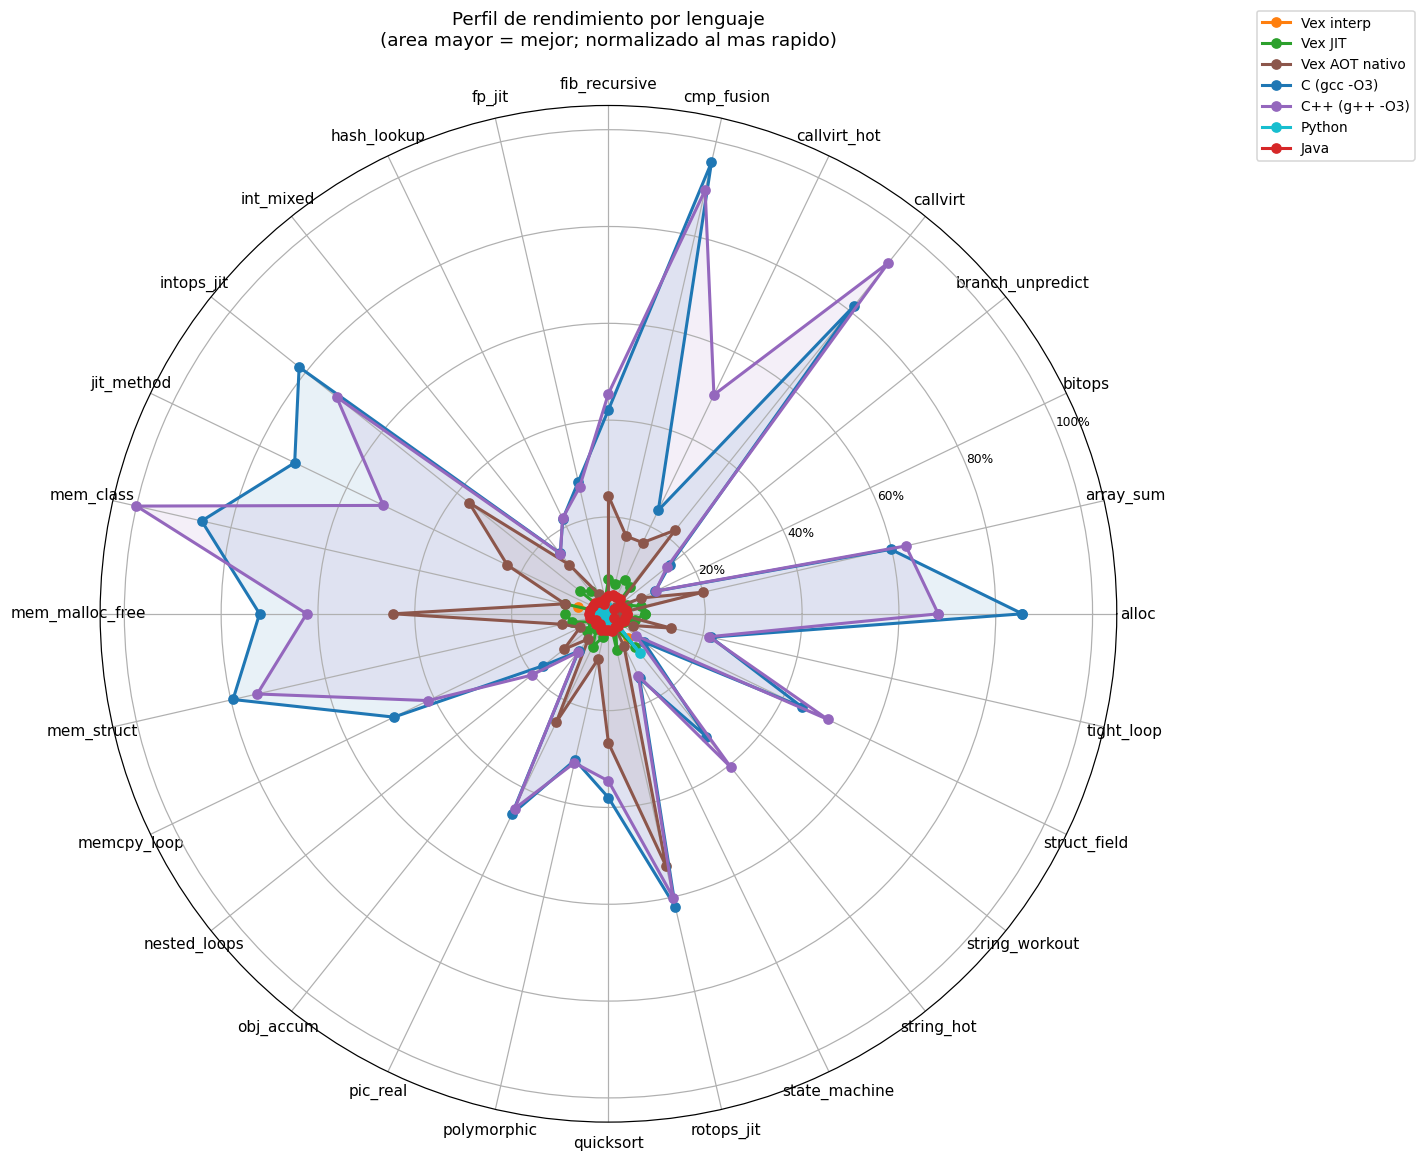
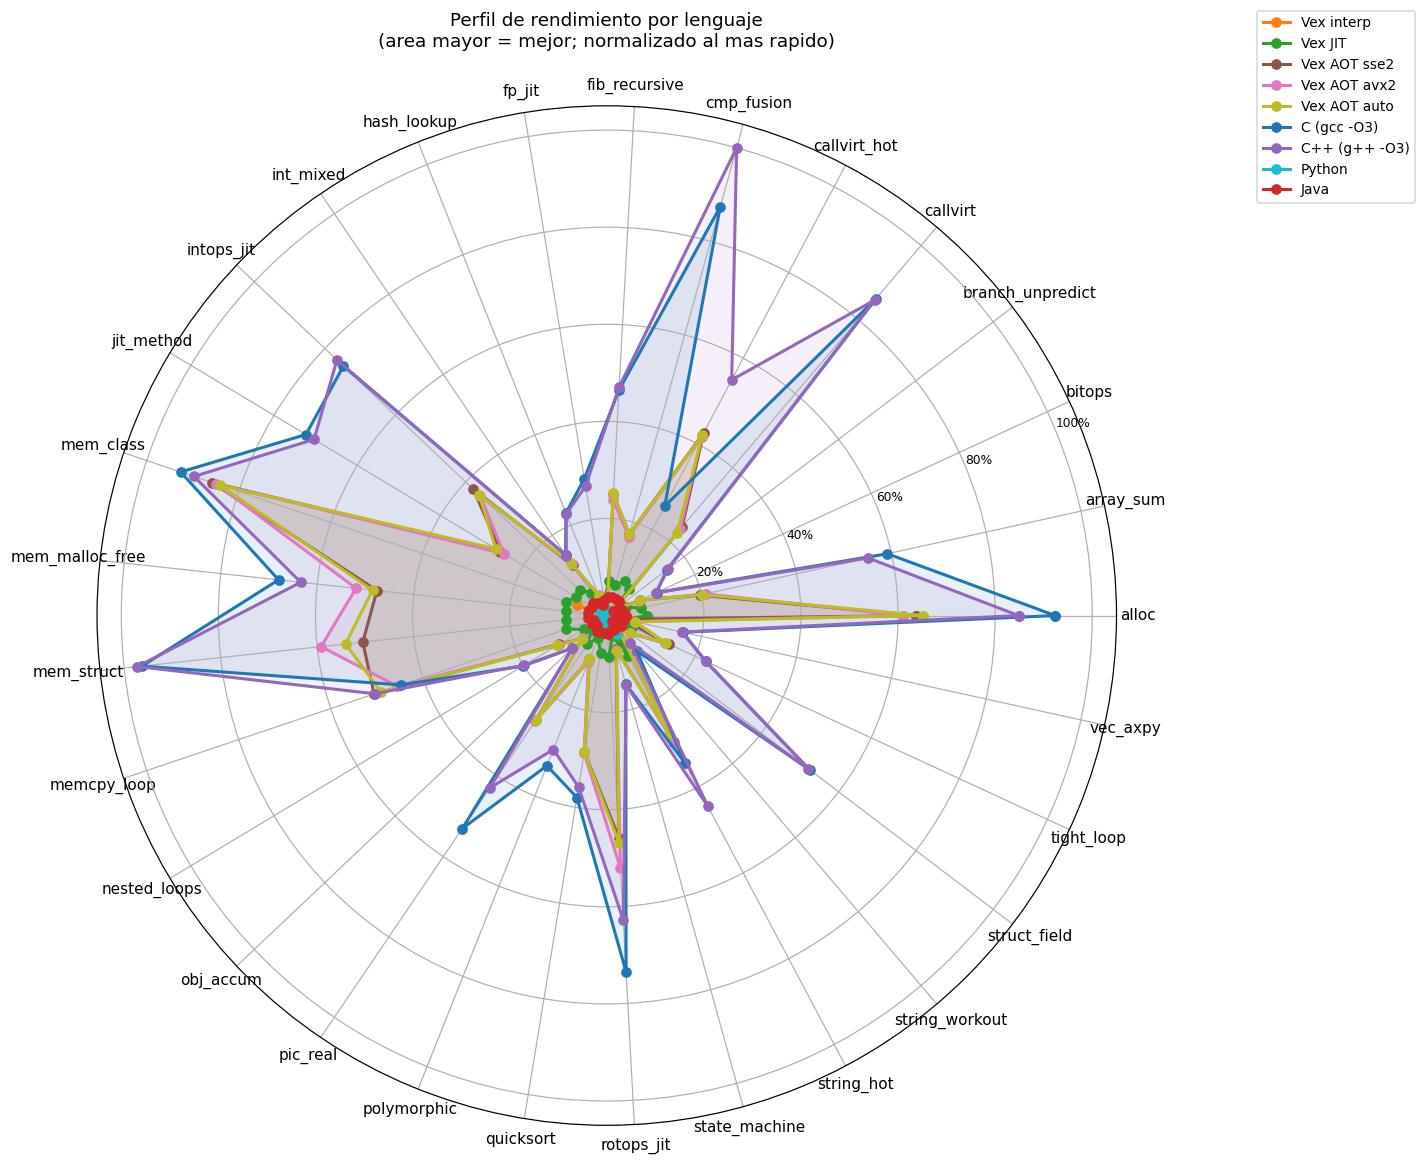
chore(bench): regenerar plots del benchmark

diff --git a/bench_plots/index.html b/bench_plots/index.html
@@ -33,11 +33,11 @@
     </style>
 </head><body>
 <h1>VestaVM Benchmark Report</h1>
-<p class="meta">Generado 2026-06-16 02:36:08 &middot; JSON: <code>F:\C\VM\bench_results.json</code></p>
+<p class="meta">Generado 2026-06-27 03:36:55 &middot; JSON: <code>F:\C\VM\bench_results.json</code></p>
 <h2>Sistema</h2>
 <dl class="sysinfo">
 <dt>CPU</dt><dd>13th Gen Intel(R) Core(TM) i7-13700KF (16 fisicos / 24 logicos @ 3400 MHz)</dd>
-<dt>RAM</dt><dd>47.8 GB</dd>
+<dt>RAM</dt><dd>63.8 GB</dd>
 <dt>Arch</dt><dd>AMD64</dd>
 <dt>OS</dt><dd>Windows 10 (10.0.19045)</dd>
 </dl>
@@ -52,52 +52,53 @@
 </dl>
 <h2>Resultados (ms, mediana)</h2>
 <table>
-<thead><tr><th>Benchmark</th><th>Vex interp</th><th>Vex JIT</th><th>C (gcc -O3)</th><th>C++ (g++ -O3)</th><th>Python (CPython)</th><th>Java (HotSpot)</th></tr></thead>
+<thead><tr><th>Benchmark</th><th>Vex interp</th><th>Vex JIT</th><th>Vex AOT sse2</th><th>Vex AOT avx2</th><th>Vex AOT auto</th><th>C (gcc -O3)</th><th>C++ (g++ -O3)</th><th>Python (CPython)</th><th>Java (HotSpot)</th></tr></thead>
 <tbody>
-<tr><td>alloc</td><td>162.7</td><td>33.1</td><td class="winner">3.2</td><td>3.4</td><td>550.9</td><td>70.6</td></tr>
-<tr><td>array_sum</td><td>1631.2</td><td>44.8</td><td class="winner">5.0</td><td>6.4</td><td>456.2</td><td>80.7</td></tr>
-<tr><td>bitops</td><td>4429.7</td><td>66.5</td><td class="winner">25.8</td><td>26.2</td><td>7342.6</td><td>94.1</td></tr>
-<tr><td>branch_unpredict</td><td>6908.0</td><td>163.2</td><td class="winner">17.5</td><td>17.6</td><td>2971.4</td><td>164.3</td></tr>
-<tr><td>callvirt</td><td>13224.1</td><td>83.4</td><td class="winner">2.9</td><td>4.0</td><td>1771.8</td><td>69.8</td></tr>
-<tr><td>callvirt_hot</td><td>4918.8</td><td>46.5</td><td>10.9</td><td class="winner">5.7</td><td>692.3</td><td>70.7</td></tr>
-<tr><td>cmp_fusion</td><td>807.1</td><td>43.7</td><td class="winner">2.8</td><td>3.7</td><td>1802.3</td><td>70.5</td></tr>
-<tr><td>fib_recursive</td><td>618.6</td><td>38.5</td><td class="winner">6.0</td><td>6.1</td><td>208.2</td><td>73.5</td></tr>
-<tr><td>fp_jit</td><td>853.0</td><td class="timeout">TIMEOUT</td><td>10.1</td><td class="winner">10.1</td><td>1290.2</td><td>87.3</td></tr>
-<tr><td>hash_lookup</td><td>8862.2</td><td>96.8</td><td>13.1</td><td class="winner">12.9</td><td>6485.4</td><td>127.7</td></tr>
-<tr><td>int_mixed</td><td>5346.7</td><td>71.5</td><td>20.4</td><td class="winner">18.5</td><td>10945.5</td><td>84.7</td></tr>
-<tr><td>intops_jit</td><td>6807.9</td><td>37.4</td><td>3.6</td><td class="winner">3.2</td><td>1044.9</td><td>73.0</td></tr>
-<tr><td>jit_method</td><td>504.3</td><td>43.4</td><td class="winner">4.0</td><td>4.1</td><td>1176.6</td><td>77.6</td></tr>
-<tr><td>mem_class</td><td>1025.5</td><td>46.6</td><td class="winner">4.1</td><td>4.2</td><td>141.7</td><td>71.7</td></tr>
-<tr><td>mem_malloc_free</td><td>2504.3</td><td>32.6</td><td class="winner">3.8</td><td>5.3</td><td>550.5</td><td>70.9</td></tr>
-<tr><td>mem_struct</td><td>1691.0</td><td>37.8</td><td class="winner">3.0</td><td>3.1</td><td>400.3</td><td>72.5</td></tr>
-<tr><td>memcpy_loop</td><td>2659.4</td><td>71.2</td><td>5.8</td><td class="winner">5.7</td><td>3113.3</td><td>96.4</td></tr>
-<tr><td>nested_loops</td><td>2274.5</td><td>51.0</td><td class="winner">13.5</td><td>14.1</td><td>1555.6</td><td>80.0</td></tr>
-<tr><td>obj_accum</td><td>5394.2</td><td>73.2</td><td>28.2</td><td class="winner">28.2</td><td>4231.3</td><td>100.3</td></tr>
-<tr><td>pic_real</td><td>743.2</td><td>39.0</td><td class="winner">6.0</td><td>6.0</td><td>271.0</td><td>74.9</td></tr>
-<tr><td>polymorphic</td><td>8479.4</td><td>57.9</td><td>9.5</td><td class="winner">9.2</td><td>991.9</td><td>76.6</td></tr>
-<tr><td>quicksort</td><td>344.1</td><td>39.4</td><td>8.8</td><td class="winner">7.7</td><td>124.7</td><td>77.8</td></tr>
-<tr><td>rotops_jit</td><td>4268.5</td><td>31.4</td><td>3.8</td><td class="winner">3.7</td><td>1346.0</td><td>71.3</td></tr>
-<tr><td>state_machine</td><td>4545.9</td><td>66.5</td><td>19.5</td><td class="winner">19.0</td><td>1526.8</td><td>85.7</td></tr>
-<tr><td>string_hot</td><td>41.2</td><td>29.6</td><td>8.3</td><td class="winner">5.6</td><td>26.3</td><td>81.8</td></tr>
-<tr><td>string_workout</td><td>5618.9</td><td>478.4</td><td class="winner">30.1</td><td>39.3</td><td>489.9</td><td>182.8</td></tr>
-<tr><td>struct_field</td><td>2074.1</td><td>79.2</td><td>5.8</td><td class="winner">5.2</td><td>5070.1</td><td>77.1</td></tr>
-<tr><td>tight_loop</td><td>2234.6</td><td>48.3</td><td class="winner">13.0</td><td>13.2</td><td>982.1</td><td>80.3</td></tr>
+<tr><td>alloc</td><td>150.9</td><td>35.7</td><td>4.6</td><td>4.9</td><td>4.6</td><td class="winner">3.2</td><td>3.5</td><td>618.0</td><td>72.9</td></tr>
+<tr><td>array_sum</td><td>1520.1</td><td>41.5</td><td>15.1</td><td>14.2</td><td>14.8</td><td class="winner">5.0</td><td>5.4</td><td>483.2</td><td>82.7</td></tr>
+<tr><td>bitops</td><td>3107.0</td><td>69.4</td><td>39.0</td><td>40.4</td><td>39.4</td><td class="winner">26.2</td><td>26.7</td><td>7382.2</td><td>95.0</td></tr>
+<tr><td>branch_unpredict</td><td>3885.7</td><td>171.9</td><td>145.1</td><td>142.5</td><td>143.2</td><td>19.0</td><td class="winner">18.7</td><td>3150.8</td><td>176.6</td></tr>
+<tr><td>callvirt</td><td>849.5</td><td>41.9</td><td>12.4</td><td>12.7</td><td>13.2</td><td class="winner">3.5</td><td>3.5</td><td>1868.4</td><td>74.6</td></tr>
+<tr><td>callvirt_hot</td><td>307.7</td><td>37.1</td><td>7.0</td><td>7.1</td><td>7.1</td><td>11.6</td><td class="winner">5.4</td><td>764.9</td><td>75.0</td></tr>
+<tr><td>cmp_fusion</td><td>696.0</td><td>44.8</td><td>17.0</td><td>17.6</td><td>17.0</td><td>3.4</td><td class="winner">3.0</td><td>1919.3</td><td>74.3</td></tr>
+<tr><td>fib_recursive</td><td>349.8</td><td>41.8</td><td>11.9</td><td>12.4</td><td>11.8</td><td>6.4</td><td class="winner">6.3</td><td>260.3</td><td>76.9</td></tr>
+<tr><td>fp_jit</td><td>785.8</td><td>97.3</td><td class="na">N/A</td><td class="na">N/A</td><td class="na">N/A</td><td class="winner">10.4</td><td>11.0</td><td>1386.7</td><td>91.4</td></tr>
+<tr><td>hash_lookup</td><td>4160.1</td><td>96.2</td><td>67.1</td><td>65.2</td><td>67.4</td><td class="winner">13.0</td><td>13.1</td><td>6750.4</td><td>126.2</td></tr>
+<tr><td>int_mixed</td><td>2679.9</td><td>52.0</td><td>23.7</td><td>22.9</td><td>22.6</td><td class="winner">19.6</td><td>19.9</td><td>11124.4</td><td>91.3</td></tr>
+<tr><td>intops_jit</td><td>1550.1</td><td>38.8</td><td>7.8</td><td>8.2</td><td>8.2</td><td>4.0</td><td class="winner">3.9</td><td>1137.5</td><td>78.1</td></tr>
+<tr><td>jit_method</td><td>435.5</td><td>40.4</td><td>11.6</td><td>12.0</td><td>11.1</td><td class="winner">4.1</td><td>4.2</td><td>1247.4</td><td>83.0</td></tr>
+<tr><td>mem_class</td><td>45.4</td><td>33.3</td><td>3.5</td><td>3.5</td><td>3.5</td><td class="winner">3.2</td><td>3.3</td><td>188.3</td><td>76.1</td></tr>
+<tr><td>mem_malloc_free</td><td>662.1</td><td>35.3</td><td>6.2</td><td>5.7</td><td>6.1</td><td class="winner">4.4</td><td>4.7</td><td>612.2</td><td>74.4</td></tr>
+<tr><td>mem_struct</td><td>521.8</td><td>34.8</td><td>5.9</td><td>5.0</td><td>5.5</td><td>3.1</td><td class="winner">3.0</td><td>442.8</td><td>77.3</td></tr>
+<tr><td>memcpy_loop</td><td>1790.7</td><td>33.6</td><td class="winner">5.9</td><td>6.5</td><td>6.0</td><td>6.6</td><td>5.9</td><td>3486.8</td><td>103.4</td></tr>
+<tr><td>nested_loops</td><td>2158.1</td><td>53.8</td><td>25.9</td><td>25.0</td><td>24.8</td><td class="winner">14.7</td><td>15.0</td><td>1654.4</td><td>85.4</td></tr>
+<tr><td>obj_accum</td><td>3694.2</td><td>70.8</td><td>43.5</td><td>43.9</td><td>42.7</td><td>30.4</td><td class="winner">30.2</td><td>4369.5</td><td>103.4</td></tr>
+<tr><td>pic_real</td><td>455.0</td><td>41.3</td><td>11.4</td><td>11.3</td><td>11.4</td><td class="winner">5.6</td><td>6.9</td><td>326.6</td><td>79.2</td></tr>
+<tr><td>polymorphic</td><td>774.5</td><td>60.3</td><td>30.7</td><td>28.9</td><td>30.7</td><td class="winner">8.9</td><td>10.0</td><td>1081.9</td><td>83.0</td></tr>
+<tr><td>quicksort</td><td>276.8</td><td>37.6</td><td>10.4</td><td>10.3</td><td>10.4</td><td class="winner">7.8</td><td>8.3</td><td>162.9</td><td>81.3</td></tr>
+<tr><td>rotops_jit</td><td>1011.7</td><td>34.7</td><td>6.5</td><td>5.7</td><td>6.3</td><td class="winner">4.0</td><td>4.7</td><td>1418.6</td><td>79.7</td></tr>
+<tr><td>state_machine</td><td>3027.1</td><td>68.3</td><td>41.2</td><td>40.5</td><td>39.4</td><td>20.2</td><td class="winner">19.9</td><td>1623.9</td><td>92.7</td></tr>
+<tr><td>string_hot</td><td>43.2</td><td>31.2</td><td>10.1</td><td>10.0</td><td>10.8</td><td>8.6</td><td class="winner">6.7</td><td>68.2</td><td>89.1</td></tr>
+<tr><td>string_workout</td><td>3625.0</td><td>663.2</td><td>73.4</td><td>75.9</td><td>75.7</td><td class="winner">31.1</td><td>40.5</td><td>543.9</td><td>185.9</td></tr>
+<tr><td>struct_field</td><td>1890.8</td><td>77.1</td><td>49.4</td><td>48.6</td><td>48.5</td><td class="winner">5.6</td><td>5.7</td><td>5274.5</td><td>82.5</td></tr>
+<tr><td>tight_loop</td><td>2086.6</td><td>51.2</td><td>21.1</td><td>22.3</td><td>22.1</td><td>13.2</td><td class="winner">13.2</td><td>1064.1</td><td>83.5</td></tr>
+<tr><td>vec_axpy</td><td>21314.2</td><td>77.1</td><td>84.3</td><td>50.3</td><td>49.7</td><td class="winner">18.5</td><td>18.7</td><td>6202.6</td><td>120.3</td></tr>
 </tbody></table>
 <h2>Geomean slowdown vs C por categoria</h2>
 <p class="meta">Verde &lt;1.5x &middot; Amarillo &lt;3x &middot; Rojo &ge;3x</p>
 <table>
-<thead><tr><th>Categoria</th><th>N</th><th>Vex interp</th><th>Vex JIT</th><th>C++ (g++ -O3)</th><th>Python (CPython)</th><th>Java (HotSpot)</th></tr></thead>
+<thead><tr><th>Categoria</th><th>N</th><th>Vex interp</th><th>Vex JIT</th><th>Vex AOT sse2</th><th>Vex AOT avx2</th><th>Vex AOT auto</th><th>C++ (g++ -O3)</th><th>Python (CPython)</th><th>Java (HotSpot)</th></tr></thead>
 <tbody>
-<tr><td>alloc</td><td>4</td><td class="cat-bad">259.93x</td><td class="cat-bad">10.52x</td><td class="cat-good">1.11x</td><td class="cat-bad">102.69x</td><td class="cat-bad">20.25x</td></tr>
-<tr><td>bit</td><td>2</td><td class="cat-bad">439.00x</td><td class="cat-bad">4.61x</td><td class="cat-good">0.99x</td><td class="cat-bad">317.39x</td><td class="cat-bad">8.27x</td></tr>
-<tr><td>branch</td><td>3</td><td class="cat-bad">152.94x</td><td class="cat-bad">5.21x</td><td class="cat-good">0.95x</td><td class="cat-bad">57.21x</td><td class="cat-bad">7.13x</td></tr>
-<tr><td>fp</td><td>1</td><td class="cat-bad">84.42x</td><td class="na">N/A</td><td class="cat-good">1.00x</td><td class="cat-bad">127.69x</td><td class="cat-bad">8.64x</td></tr>
-<tr><td>hash</td><td>1</td><td class="cat-bad">675.49x</td><td class="cat-bad">7.38x</td><td class="cat-good">0.98x</td><td class="cat-bad">494.33x</td><td class="cat-bad">9.73x</td></tr>
-<tr><td>int</td><td>7</td><td class="cat-bad">245.65x</td><td class="cat-bad">6.62x</td><td class="cat-good">1.03x</td><td class="cat-bad">190.00x</td><td class="cat-bad">10.92x</td></tr>
-<tr><td>mem</td><td>2</td><td class="cat-bad">384.92x</td><td class="cat-bad">10.45x</td><td class="cat-good">1.12x</td><td class="cat-bad">220.25x</td><td class="cat-bad">16.30x</td></tr>
-<tr><td>misc</td><td>1</td><td class="cat-bad">190.96x</td><td class="cat-mid">2.59x</td><td class="cat-good">1.00x</td><td class="cat-bad">149.79x</td><td class="cat-bad">3.55x</td></tr>
-<tr><td>oop</td><td>5</td><td class="cat-bad">606.30x</td><td class="cat-bad">9.23x</td><td class="cat-good">0.91x</td><td class="cat-bad">174.34x</td><td class="cat-bad">11.60x</td></tr>
-<tr><td>string</td><td>2</td><td class="cat-bad">30.47x</td><td class="cat-bad">7.53x</td><td class="cat-good">0.94x</td><td class="cat-bad">7.19x</td><td class="cat-bad">7.75x</td></tr>
+<tr><td>alloc</td><td>4</td><td class="cat-bad">64.41x</td><td class="cat-bad">10.15x</td><td class="cat-good">1.44x</td><td class="cat-good">1.37x</td><td class="cat-good">1.41x</td><td class="cat-good">1.05x</td><td class="cat-bad">123.07x</td><td class="cat-bad">21.95x</td></tr>
+<tr><td>bit</td><td>2</td><td class="cat-bad">172.41x</td><td class="cat-bad">4.77x</td><td class="cat-mid">1.54x</td><td class="cat-good">1.47x</td><td class="cat-mid">1.53x</td><td class="cat-good">1.09x</td><td class="cat-bad">314.70x</td><td class="cat-bad">8.46x</td></tr>
+<tr><td>branch</td><td>3</td><td class="cat-bad">102.71x</td><td class="cat-bad">5.28x</td><td class="cat-mid">2.74x</td><td class="cat-mid">2.70x</td><td class="cat-mid">2.69x</td><td class="cat-good">1.01x</td><td class="cat-bad">65.22x</td><td class="cat-bad">7.63x</td></tr>
+<tr><td>fp</td><td>1</td><td class="cat-bad">75.78x</td><td class="cat-bad">9.38x</td><td class="na">N/A</td><td class="na">N/A</td><td class="na">N/A</td><td class="cat-good">1.06x</td><td class="cat-bad">133.73x</td><td class="cat-bad">8.81x</td></tr>
+<tr><td>hash</td><td>1</td><td class="cat-bad">318.91x</td><td class="cat-bad">7.38x</td><td class="cat-bad">5.14x</td><td class="cat-bad">5.00x</td><td class="cat-bad">5.16x</td><td class="cat-good">1.01x</td><td class="cat-bad">517.48x</td><td class="cat-bad">9.67x</td></tr>
+<tr><td>int</td><td>7</td><td class="cat-bad">147.06x</td><td class="cat-bad">6.10x</td><td class="cat-mid">2.10x</td><td class="cat-mid">2.14x</td><td class="cat-mid">2.08x</td><td class="cat-good">0.98x</td><td class="cat-bad">194.19x</td><td class="cat-bad">10.88x</td></tr>
+<tr><td>mem</td><td>2</td><td class="cat-bad">286.60x</td><td class="cat-bad">6.49x</td><td class="cat-mid">1.64x</td><td class="cat-mid">1.67x</td><td class="cat-mid">1.64x</td><td class="cat-good">0.98x</td><td class="cat-bad">225.49x</td><td class="cat-bad">16.06x</td></tr>
+<tr><td>misc</td><td>2</td><td class="cat-bad">374.47x</td><td class="cat-bad">3.12x</td><td class="cat-mid">2.56x</td><td class="cat-mid">1.98x</td><td class="cat-mid">1.94x</td><td class="cat-good">1.00x</td><td class="cat-bad">219.70x</td><td class="cat-bad">4.71x</td></tr>
+<tr><td>oop</td><td>5</td><td class="cat-bad">109.06x</td><td class="cat-bad">7.66x</td><td class="cat-mid">2.65x</td><td class="cat-mid">2.63x</td><td class="cat-mid">2.69x</td><td class="cat-good">0.92x</td><td class="cat-bad">188.18x</td><td class="cat-bad">12.19x</td></tr>
+<tr><td>string</td><td>2</td><td class="cat-bad">24.13x</td><td class="cat-bad">8.78x</td><td class="cat-mid">1.66x</td><td class="cat-mid">1.68x</td><td class="cat-mid">1.74x</td><td class="cat-good">1.00x</td><td class="cat-bad">11.75x</td><td class="cat-bad">7.85x</td></tr>
 </tbody></table>
 <h2>Graficas</h2>
 <div class="grid-plots">
@@ -166,5 +167,6 @@
 <div><h3>string_workout</h3><img class="plot" src="per_bench/string_workout.png" alt="string_workout"></div>
 <div><h3>struct_field</h3><img class="plot" src="per_bench/struct_field.png" alt="struct_field"></div>
 <div><h3>tight_loop</h3><img class="plot" src="per_bench/tight_loop.png" alt="tight_loop"></div>
+<div><h3>vec_axpy</h3><img class="plot" src="per_bench/vec_axpy.png" alt="vec_axpy"></div>
 </div>
 </body></html>
